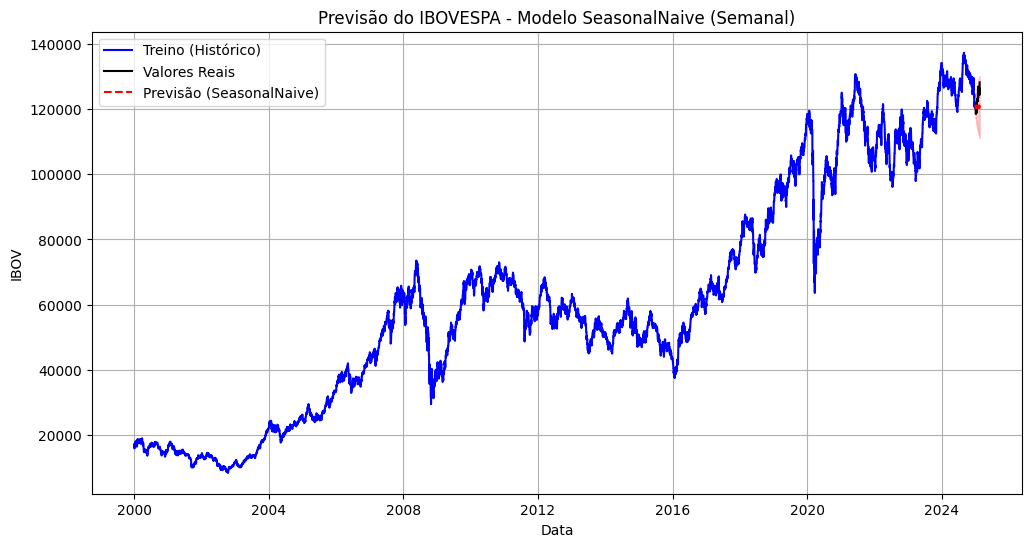
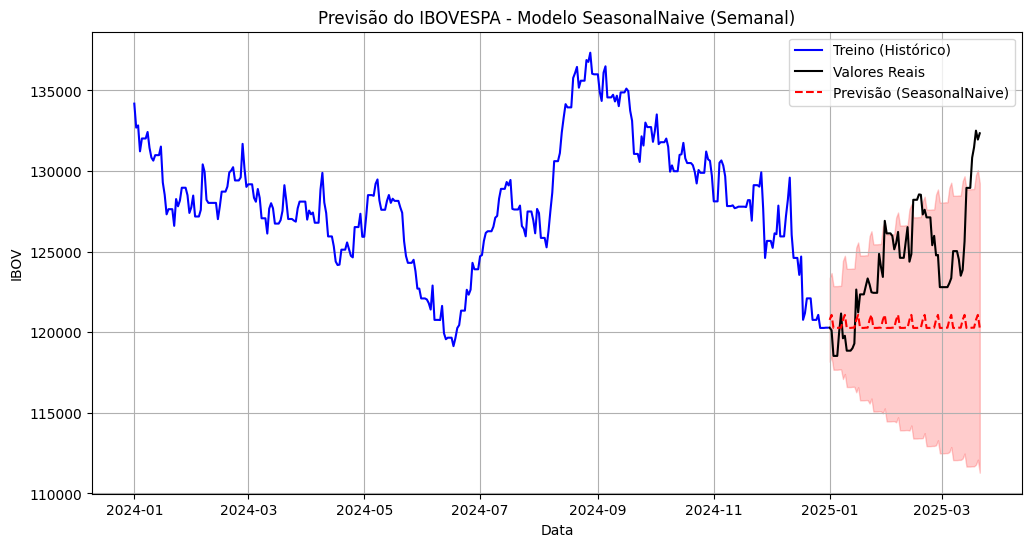
docs(2_ibov): new plots for seazonal_naive

diff --git a/challenges/2_ibov/README.md b/challenges/2_ibov/README.md
@@ -328,9 +328,13 @@ Ao avaliar o desempenho do modelo Seasonal Naive nos dados de teste, conseguimos
 
 #### Seazonal Naive | Valores Reais X Previsão do Modelo (Semanal)
 
-![previsao_do_ibovespa_modelo_naive_compare_zoom](plots/previsao_do_ibovespa_modelo_naive_compare_zoom.png)
+![previsao_do_ibovespa_modelo_seazonal_naive_semanal](plots/previsao_do_ibovespa_modelo_seazonal_naive_semanal.png)
+
+![previsao_do_ibovespa_modelo_seazonal_naive_semanal_zoom](plots/previsao_do_ibovespa_modelo_seazonal_naive_semanal_zoom.png)
 
 #### Seazonal Naive | Valores Reais X Previsão do Modelo (Mensal)
+
+![previsao_do_ibovespa_modelo_seazonal_naive_mensal](plots/previsao_do_ibovespa_modelo_seazonal_naive_mensal.png)
 
 ![previsao_do_ibovespa_modelo_seazonal_naive_mensal_zoom](plots/previsao_do_ibovespa_modelo_seazonal_naive_mensal_zoom.png)
 
